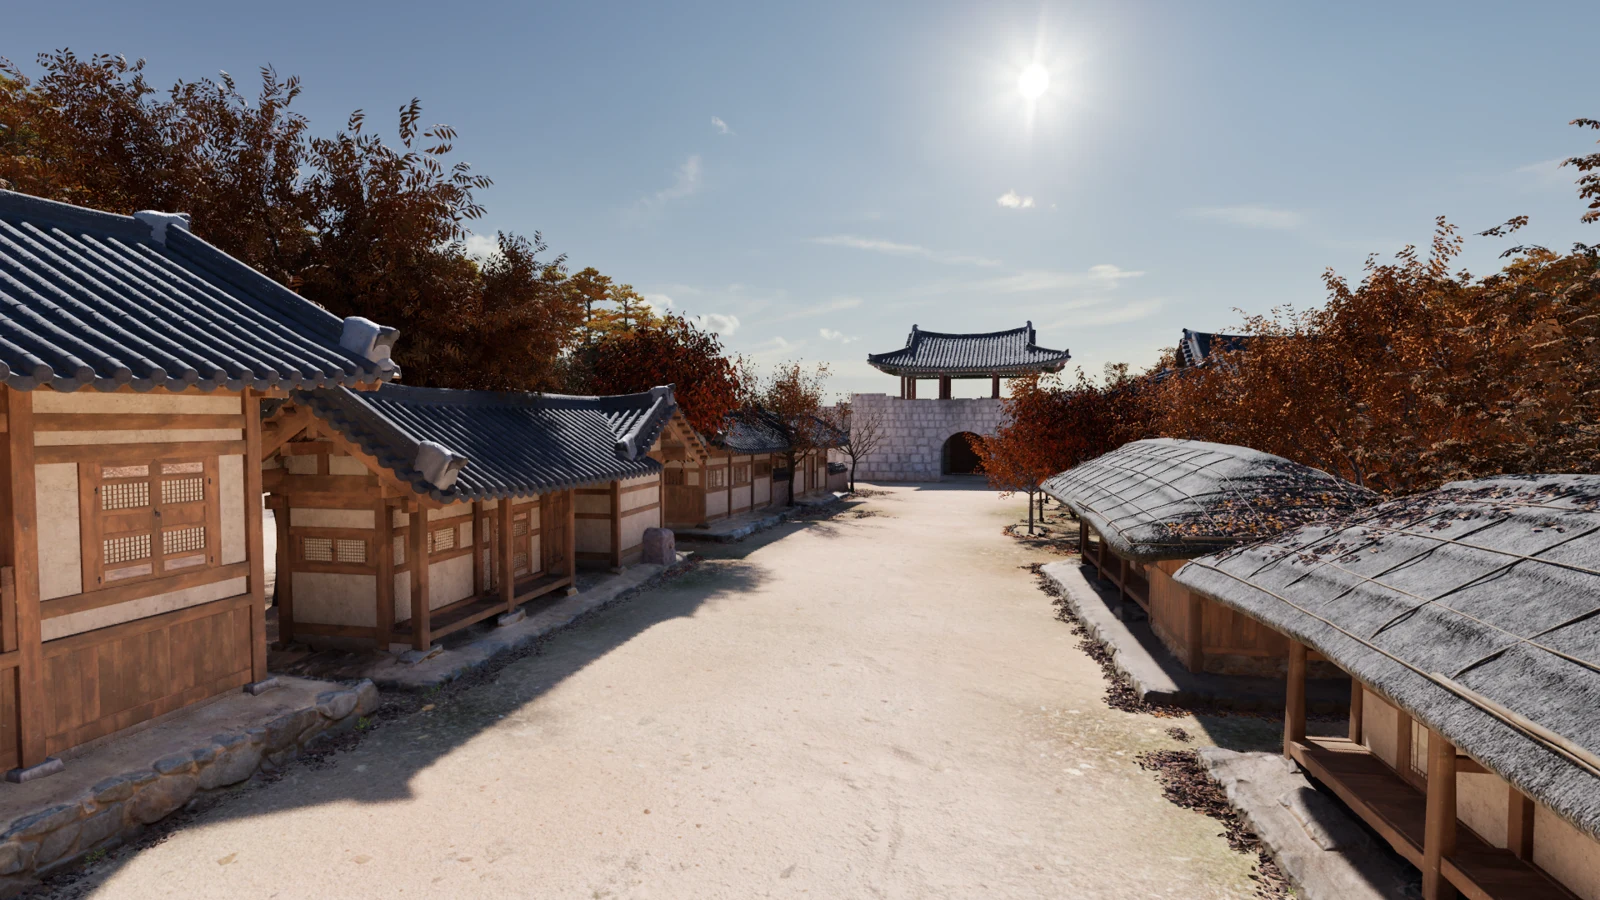
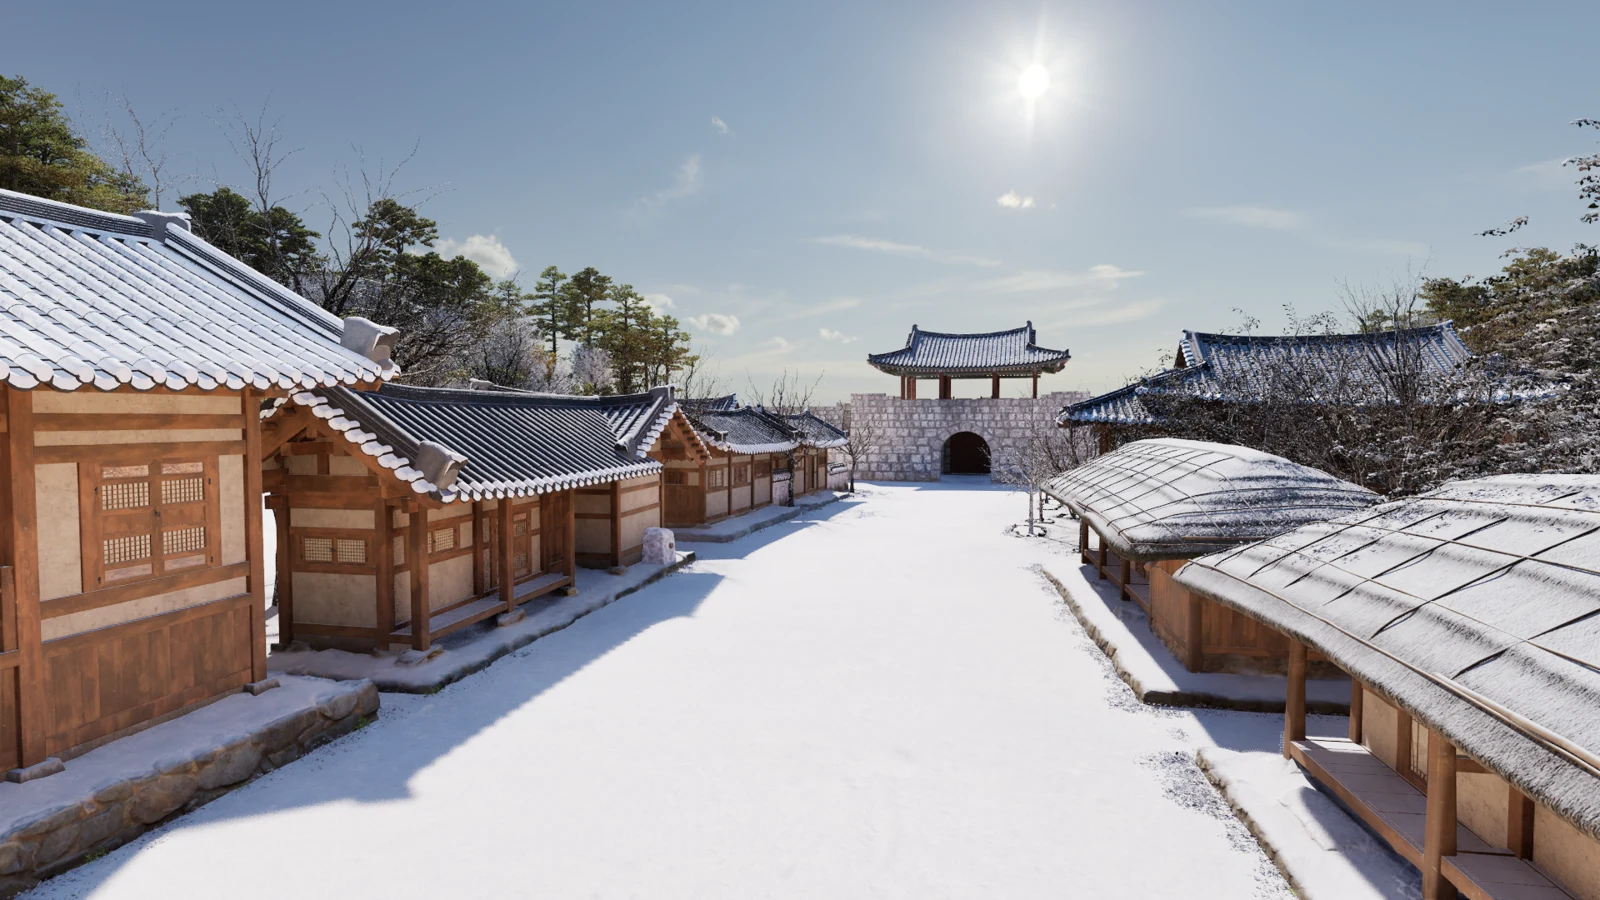
Replace winter scene with supplied snow-covered capture

diff --git a/projects/mungyeong.html b/projects/mungyeong.html
@@ -7,5 +7,5 @@
 <img class="surface-landscape" src="../media/mungyeong-spring-1600.webp" alt="문경·경북도 프로젝트 작업 배경" aria-hidden="true" fetchpriority="high">
 <div class="surface-feature"><div class="surface-result"><figure class="article-figure"><a href="../media/mungyeong-spring.png" class="zoom-link" data-zoom aria-label="문경·경북도 프로젝트의 봄 계절 환경"><img src="../media/mungyeong-spring-1600.webp" alt="문경·경북도 프로젝트의 봄 계절 환경" fetchpriority="high"></a></figure></div><header class="surface-copy"><h1 id="surface-title">Environment<br>assets</h1><p class="surface-name">문경·경북도 스튜디오</p><p class="surface-description">스튜디오 초기 운영과 이후 촬영에 활용할 환경 에셋 제작</p><a class="surface-read" href="#record">제작 과정 읽기 <span aria-hidden="true">↓</span></a></header></div>
 <div class="surface-bottom"><p>회사 프로젝트 / Unreal Engine<br>2024</p><a href="#record">아래로 스크롤 <span aria-hidden="true">↓</span></a></div>
-</section><div class="surface-reading"><article class="article-body" id="record"><p>지면을 칠할 수 있는 Landscape 레이어와 에셋을 지면에 자연스럽게 연결하는 RVT 블렌딩 및 하나의 환경에서 사계절을 전환하는 머티리얼 시스템을 제작했다.</p><section><h2>1. 지면을 칠하고 에셋과 연결하기</h2><p>환경을 구성할 때 지면을 원하는 재질로 칠할 수 있도록 흙과 자갈 및 물 등을 포함한 여섯 종류의 Landscape 레이어를 만들었다.</p><p>지면 위에 에셋을 배치한 뒤에는 바닥과 에셋이 따로 놓인 느낌이 들어 RVT에서 지면의 색과 표면 정보를 가져오고 에셋 아래쪽에 섞어 흙이 묻어나는 것처럼 연결했다.</p><div class="project-image-pairs"><figure class="article-figure"><a href="../media/mungyeong-rvt-before.png" data-zoom><img src="../media/mungyeong-rvt-before-1600.webp" alt="RVT 적용 전" loading="lazy" decoding="async"></a><figcaption>RVT 적용 전</figcaption></figure><figure class="article-figure"><a href="../media/mungyeong-rvt-after.png" data-zoom><img src="../media/mungyeong-rvt-after-1600.webp" alt="RVT 적용 후" loading="lazy" decoding="async"></a><figcaption>RVT 적용 후</figcaption></figure></div></section><section><h2>2. 높이 차이로 RVT 블렌딩 범위 조절하기</h2><p>에셋 전체에 지면 재질이 묻으면 기존 모양이 사라지기 때문에 지면과 가까운 부분에만 적용되도록 높이 차이를 마스크로 사용했다.</p><p>공유한 그래프에서는 Absolute World Position의 Z에서 RVT의 WorldHeight를 빼고 RVT_Height로 나눈 뒤 Saturate한 값을 BlendMaterialAttributes의 Alpha에 연결했다. 지면에 가까운 쪽에는 RVT 속성이 들어가고 높이가 올라갈수록 기존 에셋 속성으로 돌아가도록 구성했다.</p><p>RVT의 BaseColor와 Specular 및 Roughness를 가져오고 Normal은 World Space에서 Tangent Space로 변환해 연결했으며 경계 표현에는 DitherTemporalAA와 Pixel Depth Offset도 사용했다.</p><figure class="article-figure"><a href="../media/mungyeong-rvt-graph.png" data-zoom><img src="../media/mungyeong-rvt-graph-1600.webp" alt="RVT 속성 샘플링과 높이 차이 마스크 및 PDO 연결" loading="lazy" decoding="async"></a><figcaption>RVT 속성 샘플링과 높이 차이 마스크 및 PDO 연결</figcaption></figure></section><section><h2>3. 레벨을 교체하지 않고 사계절 바꾸기</h2><p>계절을 바꾸기 위해 레벨이나 머티리얼을 따로 교체하던 방식에서 벗어나 같은 환경 안에서 계절을 선택하면 전체 에셋이 함께 반응하도록 만들고 싶었다.</p><p>Blueprint에 Spring / Summer / Fall / Winter를 가진 Enum_Season을 만들고 선택한 계절을 Switch on Enum으로 나눠 Material Parameter Collection에 값을 전달하도록 구성했다.</p><p>봄에는 나뭇잎을 푸른 색으로 조절하고 가을에는 미리 정해둔 색 범위 안에서 잎사귀 색이 무작위로 바뀌도록 했으며 바닥에 배치한 낙엽에도 같은 계절 변화를 적용했다.</p><p>여름에는 비가 내린 뒤의 느낌이 나도록 월드 노이즈로 젖은 영역을 만들고 에셋 아래쪽에는 빗물이 흘러내리는 표현과 지면에는 젖은 웅덩이를 추가했다.</p><div class="project-image-pairs"><figure class="article-figure"><a href="../media/mungyeong-spring.png" data-zoom><img src="../media/mungyeong-spring-1600.webp" alt="봄" loading="lazy" decoding="async"></a><figcaption>봄</figcaption></figure><figure class="article-figure"><a href="../media/mungyeong-summer.png" data-zoom><img src="../media/mungyeong-summer-1600.webp" alt="여름" loading="lazy" decoding="async"></a><figcaption>여름</figcaption></figure><figure class="article-figure"><a href="../media/mungyeong-autumn.png" data-zoom><img src="../media/mungyeong-autumn-1600.webp" alt="가을" loading="lazy" decoding="async"></a><figcaption>가을</figcaption></figure><figure class="article-figure"><a href="../media/mungyeong-winter.png" data-zoom><img src="../media/mungyeong-winter-1600.webp" alt="겨울" loading="lazy" decoding="async"></a><figcaption>겨울</figcaption></figure></div></section><section><h2>4. 표면 방향과 거리에 따른 눈 표현</h2><p>겨울에는 위쪽을 향한 면에 눈이 덮이도록 VertexNormalWS의 Z 성분으로 마스크를 만들고 Displacement 맵을 사용해 눈의 두께를 표현했다.</p><p>경사가 큰 면에도 눈이 똑같이 쌓이면 어색해 45도보다 가파른 면에서는 눈이 적게 남고 완만해질수록 많이 쌓이도록 조절했으며 경계에는 노이즈를 섞어 일정한 선으로 끊기지 않도록 했다.</p><p>지면과 일반 에셋 및 산에 같은 값을 적용하기는 어려워 Ground / Prop과 Mountain 설정을 나누고 각 환경에 맞게 쌓임 강도와 대비를 조절할 수 있도록 만들었다.</p><div class="project-image-pairs"><figure class="article-figure"><a href="../media/mungyeong-snow-mask.png" data-zoom><img src="../media/mungyeong-snow-mask-1600.webp" alt="표면 방향과 Ground / Prop 및 Mountain 설정에 따른 눈 마스크" loading="lazy" decoding="async"></a><figcaption>표면 방향과 Ground / Prop 및 Mountain 설정에 따른 눈 마스크</figcaption></figure><figure class="article-figure"><a href="../media/mungyeong-instance.png" data-zoom><img src="../media/mungyeong-instance-1600.webp" alt="인스턴스에서 조절하는 눈 머티리얼 설정" loading="lazy" decoding="async"></a><figcaption>인스턴스에서 조절하는 눈 머티리얼 설정</figcaption></figure></div></section><section><h2>5. 가까운 곳과 먼 곳의 텍스처 크기 나누기</h2><p>카메라와 가까운 곳의 눈 디테일을 유지하면서 멀리 보이는 부분의 패턴 크기도 조절할 수 있도록 월드 좌표에서 Near UV와 Far UV를 따로 만들었다.</p><p>Camera Position과 Absolute World Position 사이의 거리를 Snow Far Distance로 나누고 Power와 Clamp를 거친 값을 블렌딩에 사용해 거리 변화에 따라 두 UV로 읽은 텍스처가 자연스럽게 이어지도록 했다.</p><div class="project-image-pairs"><figure class="article-figure"><a href="../media/mungyeong-distance-uv.png" data-zoom><img src="../media/mungyeong-distance-uv-1600.webp" alt="카메라 거리와 Near / Far UV 계산" loading="lazy" decoding="async"></a><figcaption>카메라 거리와 Near / Far UV 계산</figcaption></figure><figure class="article-figure"><a href="../media/mungyeong-snow-sampling.png" data-zoom><img src="../media/mungyeong-snow-sampling-1600.webp" alt="두 UV로 읽은 눈 텍스처를 거리 값으로 블렌딩" loading="lazy" decoding="async"></a><figcaption>두 UV로 읽은 눈 텍스처를 거리 값으로 블렌딩</figcaption></figure></div></section><section><h2>6. 현장에서 추가한 OptiTrack 계절 전환</h2><p>현장에서 움직임에 따라 계절이 바뀌는 퍼포먼스가 필요하다는 요청이 들어와 기존 계절 시스템에 Trigger Box를 연결하는 기능을 즉석에서 추가했다.</p><p>큐브 형태의 물체에 OptiTrack 마커를 붙이고 추적한 위치를 언리얼 안의 오브젝트에 연결해 정해둔 위치로 이동하면 해당 Trigger Box가 계절을 바꾸도록 구성했다.</p><p>12시 방향에는 겨울을 두고 3시에는 봄과 6시에는 여름 및 9시에는 가을을 연결했으며 각 영역에 들어가면 Enum_Season이 바뀌고 기존 Blueprint가 Material Parameter Collection에 값을 전달해 환경 전체가 반응하도록 했다.</p></section></article>
+</section><div class="surface-reading"><article class="article-body" id="record"><p>지면을 칠할 수 있는 Landscape 레이어와 에셋을 지면에 자연스럽게 연결하는 RVT 블렌딩 및 하나의 환경에서 사계절을 전환하는 머티리얼 시스템을 제작했다.</p><section><h2>1. 지면을 칠하고 에셋과 연결하기</h2><p>환경을 구성할 때 지면을 원하는 재질로 칠할 수 있도록 흙과 자갈 및 물 등을 포함한 여섯 종류의 Landscape 레이어를 만들었다.</p><p>지면 위에 에셋을 배치한 뒤에는 바닥과 에셋이 따로 놓인 느낌이 들어 RVT에서 지면의 색과 표면 정보를 가져오고 에셋 아래쪽에 섞어 흙이 묻어나는 것처럼 연결했다.</p><div class="project-image-pairs"><figure class="article-figure"><a href="../media/mungyeong-rvt-before.png" data-zoom><img src="../media/mungyeong-rvt-before-1600.webp" alt="RVT 적용 전" loading="lazy" decoding="async"></a><figcaption>RVT 적용 전</figcaption></figure><figure class="article-figure"><a href="../media/mungyeong-rvt-after.png" data-zoom><img src="../media/mungyeong-rvt-after-1600.webp" alt="RVT 적용 후" loading="lazy" decoding="async"></a><figcaption>RVT 적용 후</figcaption></figure></div></section><section><h2>2. 높이 차이로 RVT 블렌딩 범위 조절하기</h2><p>에셋 전체에 지면 재질이 묻으면 기존 모양이 사라지기 때문에 지면과 가까운 부분에만 적용되도록 높이 차이를 마스크로 사용했다.</p><p>공유한 그래프에서는 Absolute World Position의 Z에서 RVT의 WorldHeight를 빼고 RVT_Height로 나눈 뒤 Saturate한 값을 BlendMaterialAttributes의 Alpha에 연결했다. 지면에 가까운 쪽에는 RVT 속성이 들어가고 높이가 올라갈수록 기존 에셋 속성으로 돌아가도록 구성했다.</p><p>RVT의 BaseColor와 Specular 및 Roughness를 가져오고 Normal은 World Space에서 Tangent Space로 변환해 연결했으며 경계 표현에는 DitherTemporalAA와 Pixel Depth Offset도 사용했다.</p><figure class="article-figure"><a href="../media/mungyeong-rvt-graph.png" data-zoom><img src="../media/mungyeong-rvt-graph-1600.webp" alt="RVT 속성 샘플링과 높이 차이 마스크 및 PDO 연결" loading="lazy" decoding="async"></a><figcaption>RVT 속성 샘플링과 높이 차이 마스크 및 PDO 연결</figcaption></figure></section><section><h2>3. 레벨을 교체하지 않고 사계절 바꾸기</h2><p>계절을 바꾸기 위해 레벨이나 머티리얼을 따로 교체하던 방식에서 벗어나 같은 환경 안에서 계절을 선택하면 전체 에셋이 함께 반응하도록 만들고 싶었다.</p><p>Blueprint에 Spring / Summer / Fall / Winter를 가진 Enum_Season을 만들고 선택한 계절을 Switch on Enum으로 나눠 Material Parameter Collection에 값을 전달하도록 구성했다.</p><p>봄에는 나뭇잎을 푸른 색으로 조절하고 가을에는 미리 정해둔 색 범위 안에서 잎사귀 색이 무작위로 바뀌도록 했으며 바닥에 배치한 낙엽에도 같은 계절 변화를 적용했다.</p><p>여름에는 비가 내린 뒤의 느낌이 나도록 월드 노이즈로 젖은 영역을 만들고 에셋 아래쪽에는 빗물이 흘러내리는 표현과 지면에는 젖은 웅덩이를 추가했다.</p><div class="project-image-pairs"><figure class="article-figure"><a href="../media/mungyeong-spring.png" data-zoom><img src="../media/mungyeong-spring-1600.webp" alt="봄" loading="lazy" decoding="async"></a><figcaption>봄</figcaption></figure><figure class="article-figure"><a href="../media/mungyeong-summer.png" data-zoom><img src="../media/mungyeong-summer-1600.webp" alt="여름" loading="lazy" decoding="async"></a><figcaption>여름</figcaption></figure><figure class="article-figure"><a href="../media/mungyeong-autumn.png" data-zoom><img src="../media/mungyeong-autumn-1600.webp" alt="가을" loading="lazy" decoding="async"></a><figcaption>가을</figcaption></figure><figure class="article-figure"><a href="../media/mungyeong-winter.png?v=winter-20261104" data-zoom><img src="../media/mungyeong-winter-1600.webp?v=winter-20261104" alt="겨울" loading="lazy" decoding="async"></a><figcaption>겨울</figcaption></figure></div></section><section><h2>4. 표면 방향과 거리에 따른 눈 표현</h2><p>겨울에는 위쪽을 향한 면에 눈이 덮이도록 VertexNormalWS의 Z 성분으로 마스크를 만들고 Displacement 맵을 사용해 눈의 두께를 표현했다.</p><p>경사가 큰 면에도 눈이 똑같이 쌓이면 어색해 45도보다 가파른 면에서는 눈이 적게 남고 완만해질수록 많이 쌓이도록 조절했으며 경계에는 노이즈를 섞어 일정한 선으로 끊기지 않도록 했다.</p><p>지면과 일반 에셋 및 산에 같은 값을 적용하기는 어려워 Ground / Prop과 Mountain 설정을 나누고 각 환경에 맞게 쌓임 강도와 대비를 조절할 수 있도록 만들었다.</p><div class="project-image-pairs"><figure class="article-figure"><a href="../media/mungyeong-snow-mask.png" data-zoom><img src="../media/mungyeong-snow-mask-1600.webp" alt="표면 방향과 Ground / Prop 및 Mountain 설정에 따른 눈 마스크" loading="lazy" decoding="async"></a><figcaption>표면 방향과 Ground / Prop 및 Mountain 설정에 따른 눈 마스크</figcaption></figure><figure class="article-figure"><a href="../media/mungyeong-instance.png" data-zoom><img src="../media/mungyeong-instance-1600.webp" alt="인스턴스에서 조절하는 눈 머티리얼 설정" loading="lazy" decoding="async"></a><figcaption>인스턴스에서 조절하는 눈 머티리얼 설정</figcaption></figure></div></section><section><h2>5. 가까운 곳과 먼 곳의 텍스처 크기 나누기</h2><p>카메라와 가까운 곳의 눈 디테일을 유지하면서 멀리 보이는 부분의 패턴 크기도 조절할 수 있도록 월드 좌표에서 Near UV와 Far UV를 따로 만들었다.</p><p>Camera Position과 Absolute World Position 사이의 거리를 Snow Far Distance로 나누고 Power와 Clamp를 거친 값을 블렌딩에 사용해 거리 변화에 따라 두 UV로 읽은 텍스처가 자연스럽게 이어지도록 했다.</p><div class="project-image-pairs"><figure class="article-figure"><a href="../media/mungyeong-distance-uv.png" data-zoom><img src="../media/mungyeong-distance-uv-1600.webp" alt="카메라 거리와 Near / Far UV 계산" loading="lazy" decoding="async"></a><figcaption>카메라 거리와 Near / Far UV 계산</figcaption></figure><figure class="article-figure"><a href="../media/mungyeong-snow-sampling.png" data-zoom><img src="../media/mungyeong-snow-sampling-1600.webp" alt="두 UV로 읽은 눈 텍스처를 거리 값으로 블렌딩" loading="lazy" decoding="async"></a><figcaption>두 UV로 읽은 눈 텍스처를 거리 값으로 블렌딩</figcaption></figure></div></section><section><h2>6. 현장에서 추가한 OptiTrack 계절 전환</h2><p>현장에서 움직임에 따라 계절이 바뀌는 퍼포먼스가 필요하다는 요청이 들어와 기존 계절 시스템에 Trigger Box를 연결하는 기능을 즉석에서 추가했다.</p><p>큐브 형태의 물체에 OptiTrack 마커를 붙이고 추적한 위치를 언리얼 안의 오브젝트에 연결해 정해둔 위치로 이동하면 해당 Trigger Box가 계절을 바꾸도록 구성했다.</p><p>12시 방향에는 겨울을 두고 3시에는 봄과 6시에는 여름 및 9시에는 가을을 연결했으며 각 영역에 들어가면 Enum_Season이 바뀌고 기존 Blueprint가 Material Parameter Collection에 값을 전달해 환경 전체가 반응하도록 했다.</p></section></article>
 <nav class="record-end" aria-label="프로젝트 탐색"><a href="../designs/graphics-archive-remy.html">← 프로젝트 목록</a><a href="#top">맨 위로 ↑</a></nav></div></main><dialog class="lightbox" aria-label="이미지 크게 보기"><div class="lightbox-toolbar"><p id="lightbox-title">이미지 크게 보기</p><button class="lightbox-size" type="button" aria-pressed="false">원본 크기</button><button class="lightbox-close" type="button" aria-label="이미지 닫기">닫기 <span aria-hidden="true">×</span></button></div><div class="lightbox-scroll"><img alt=""></div><p class="lightbox-help">원본 크기로 확대하면 스크롤로 이동할 수 있습니다. ESC로 닫기</p></dialog></body></html>
